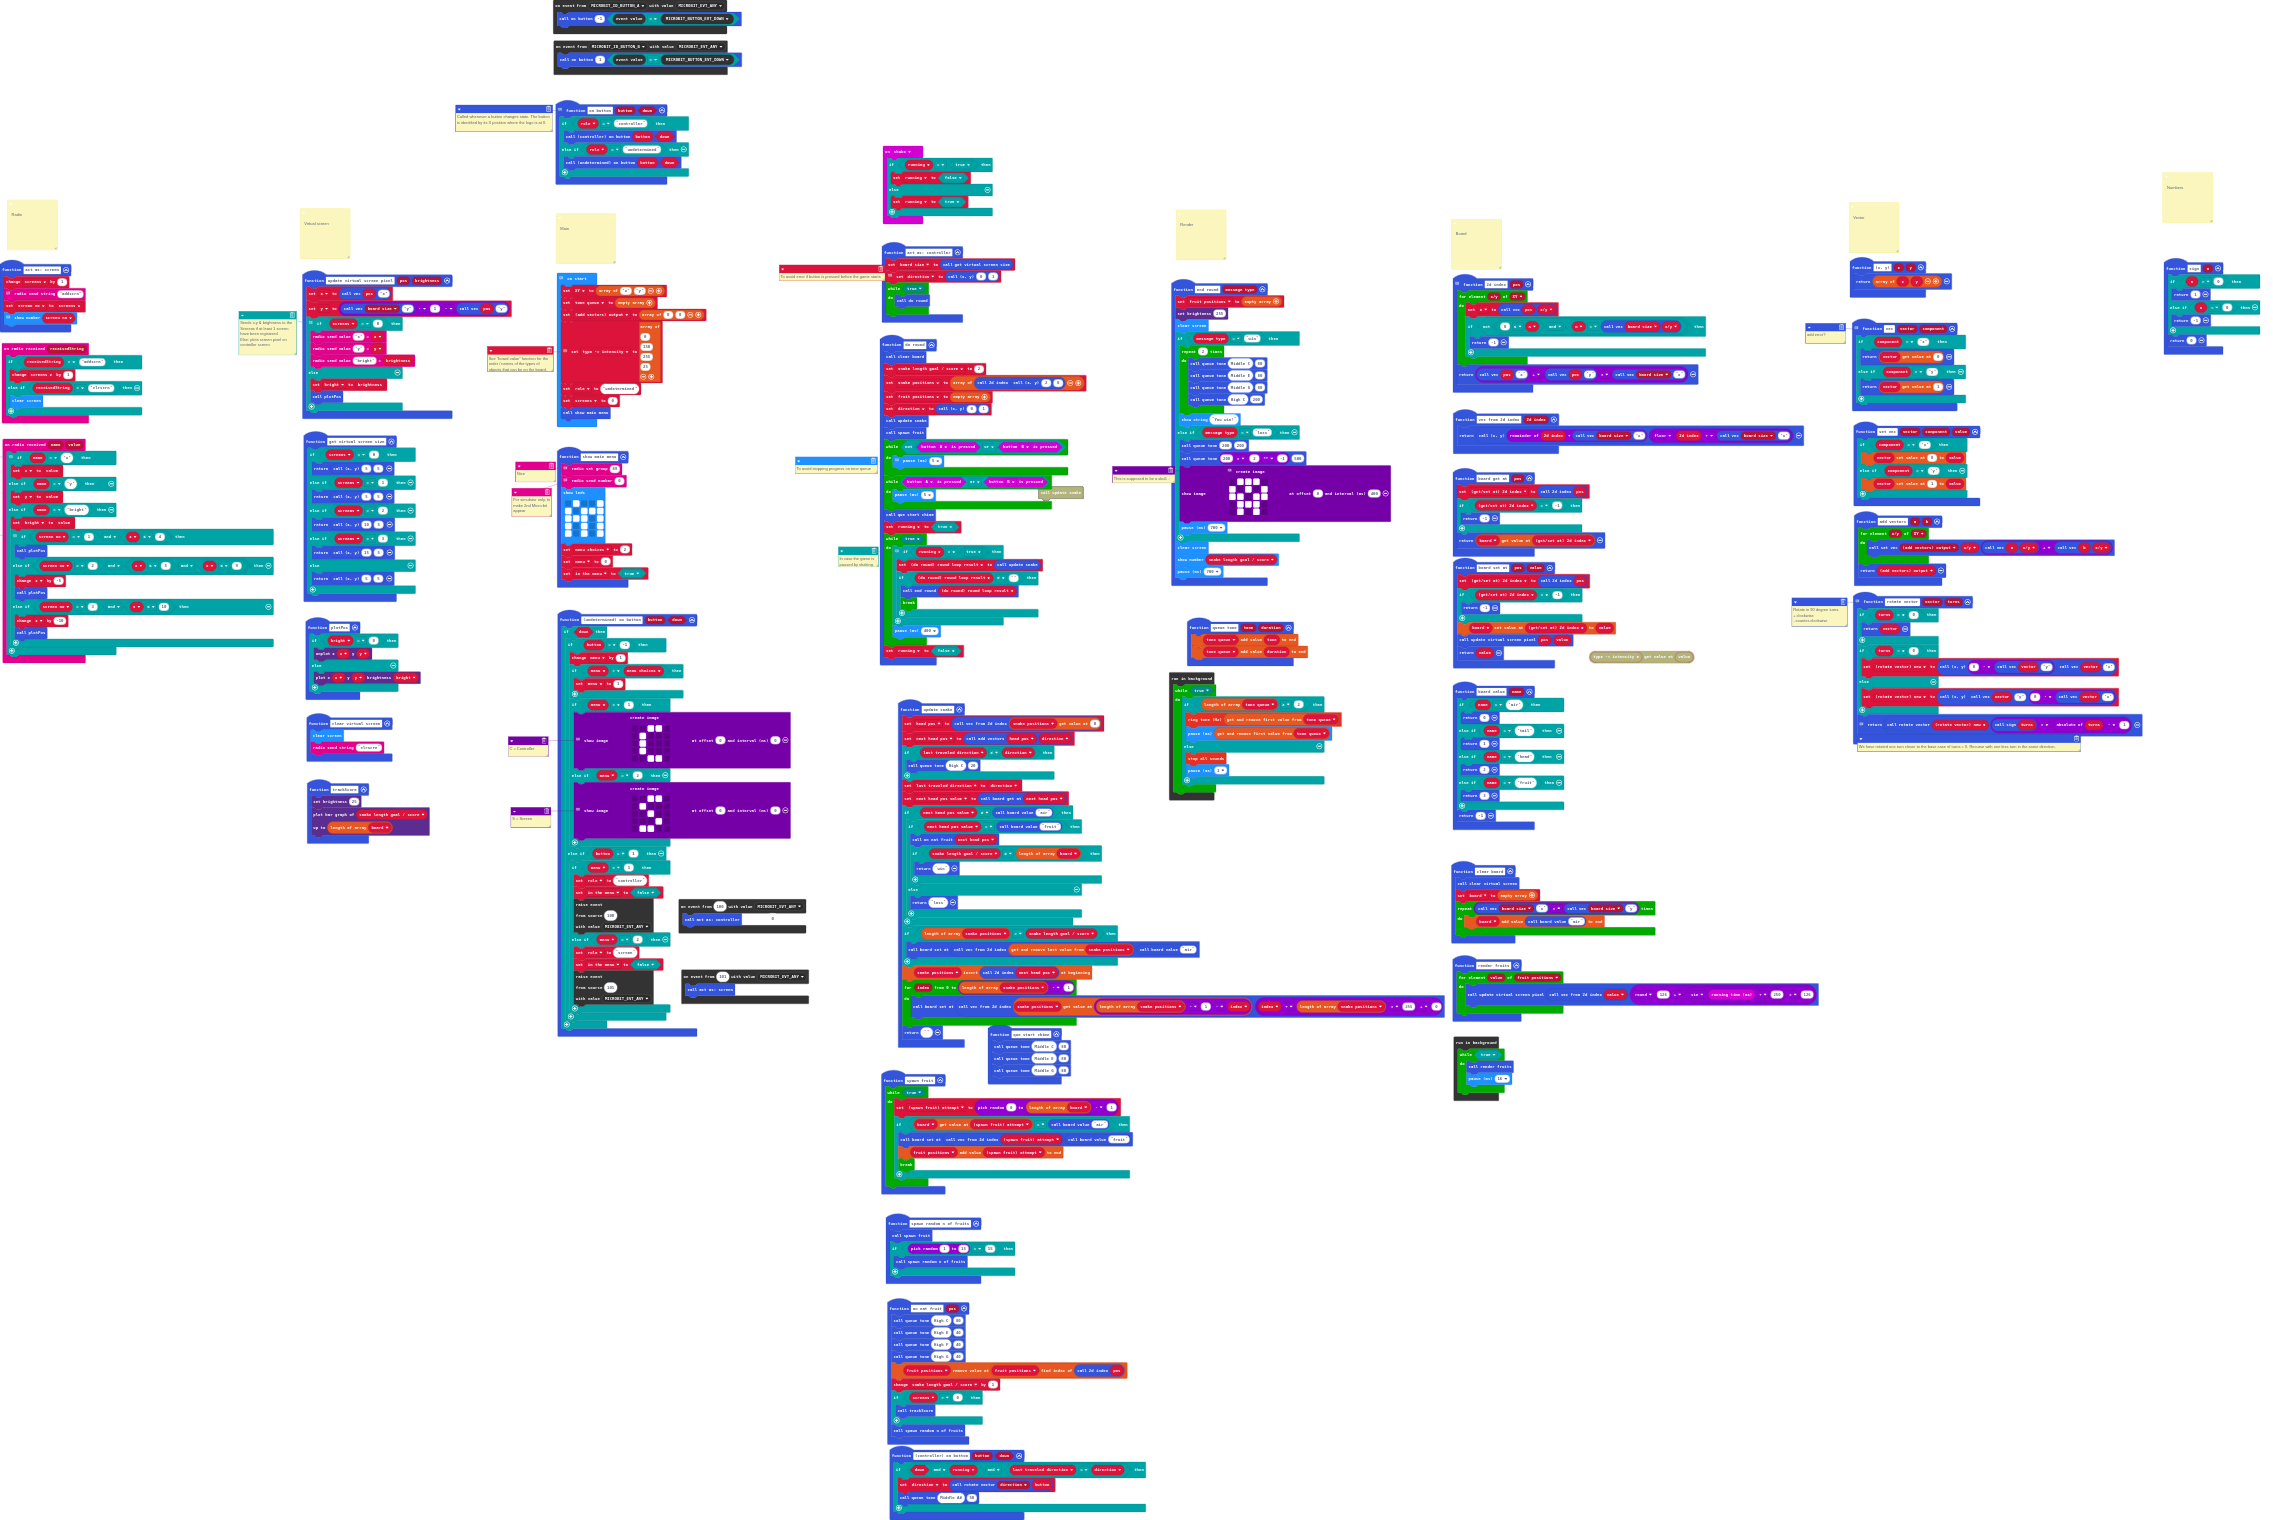
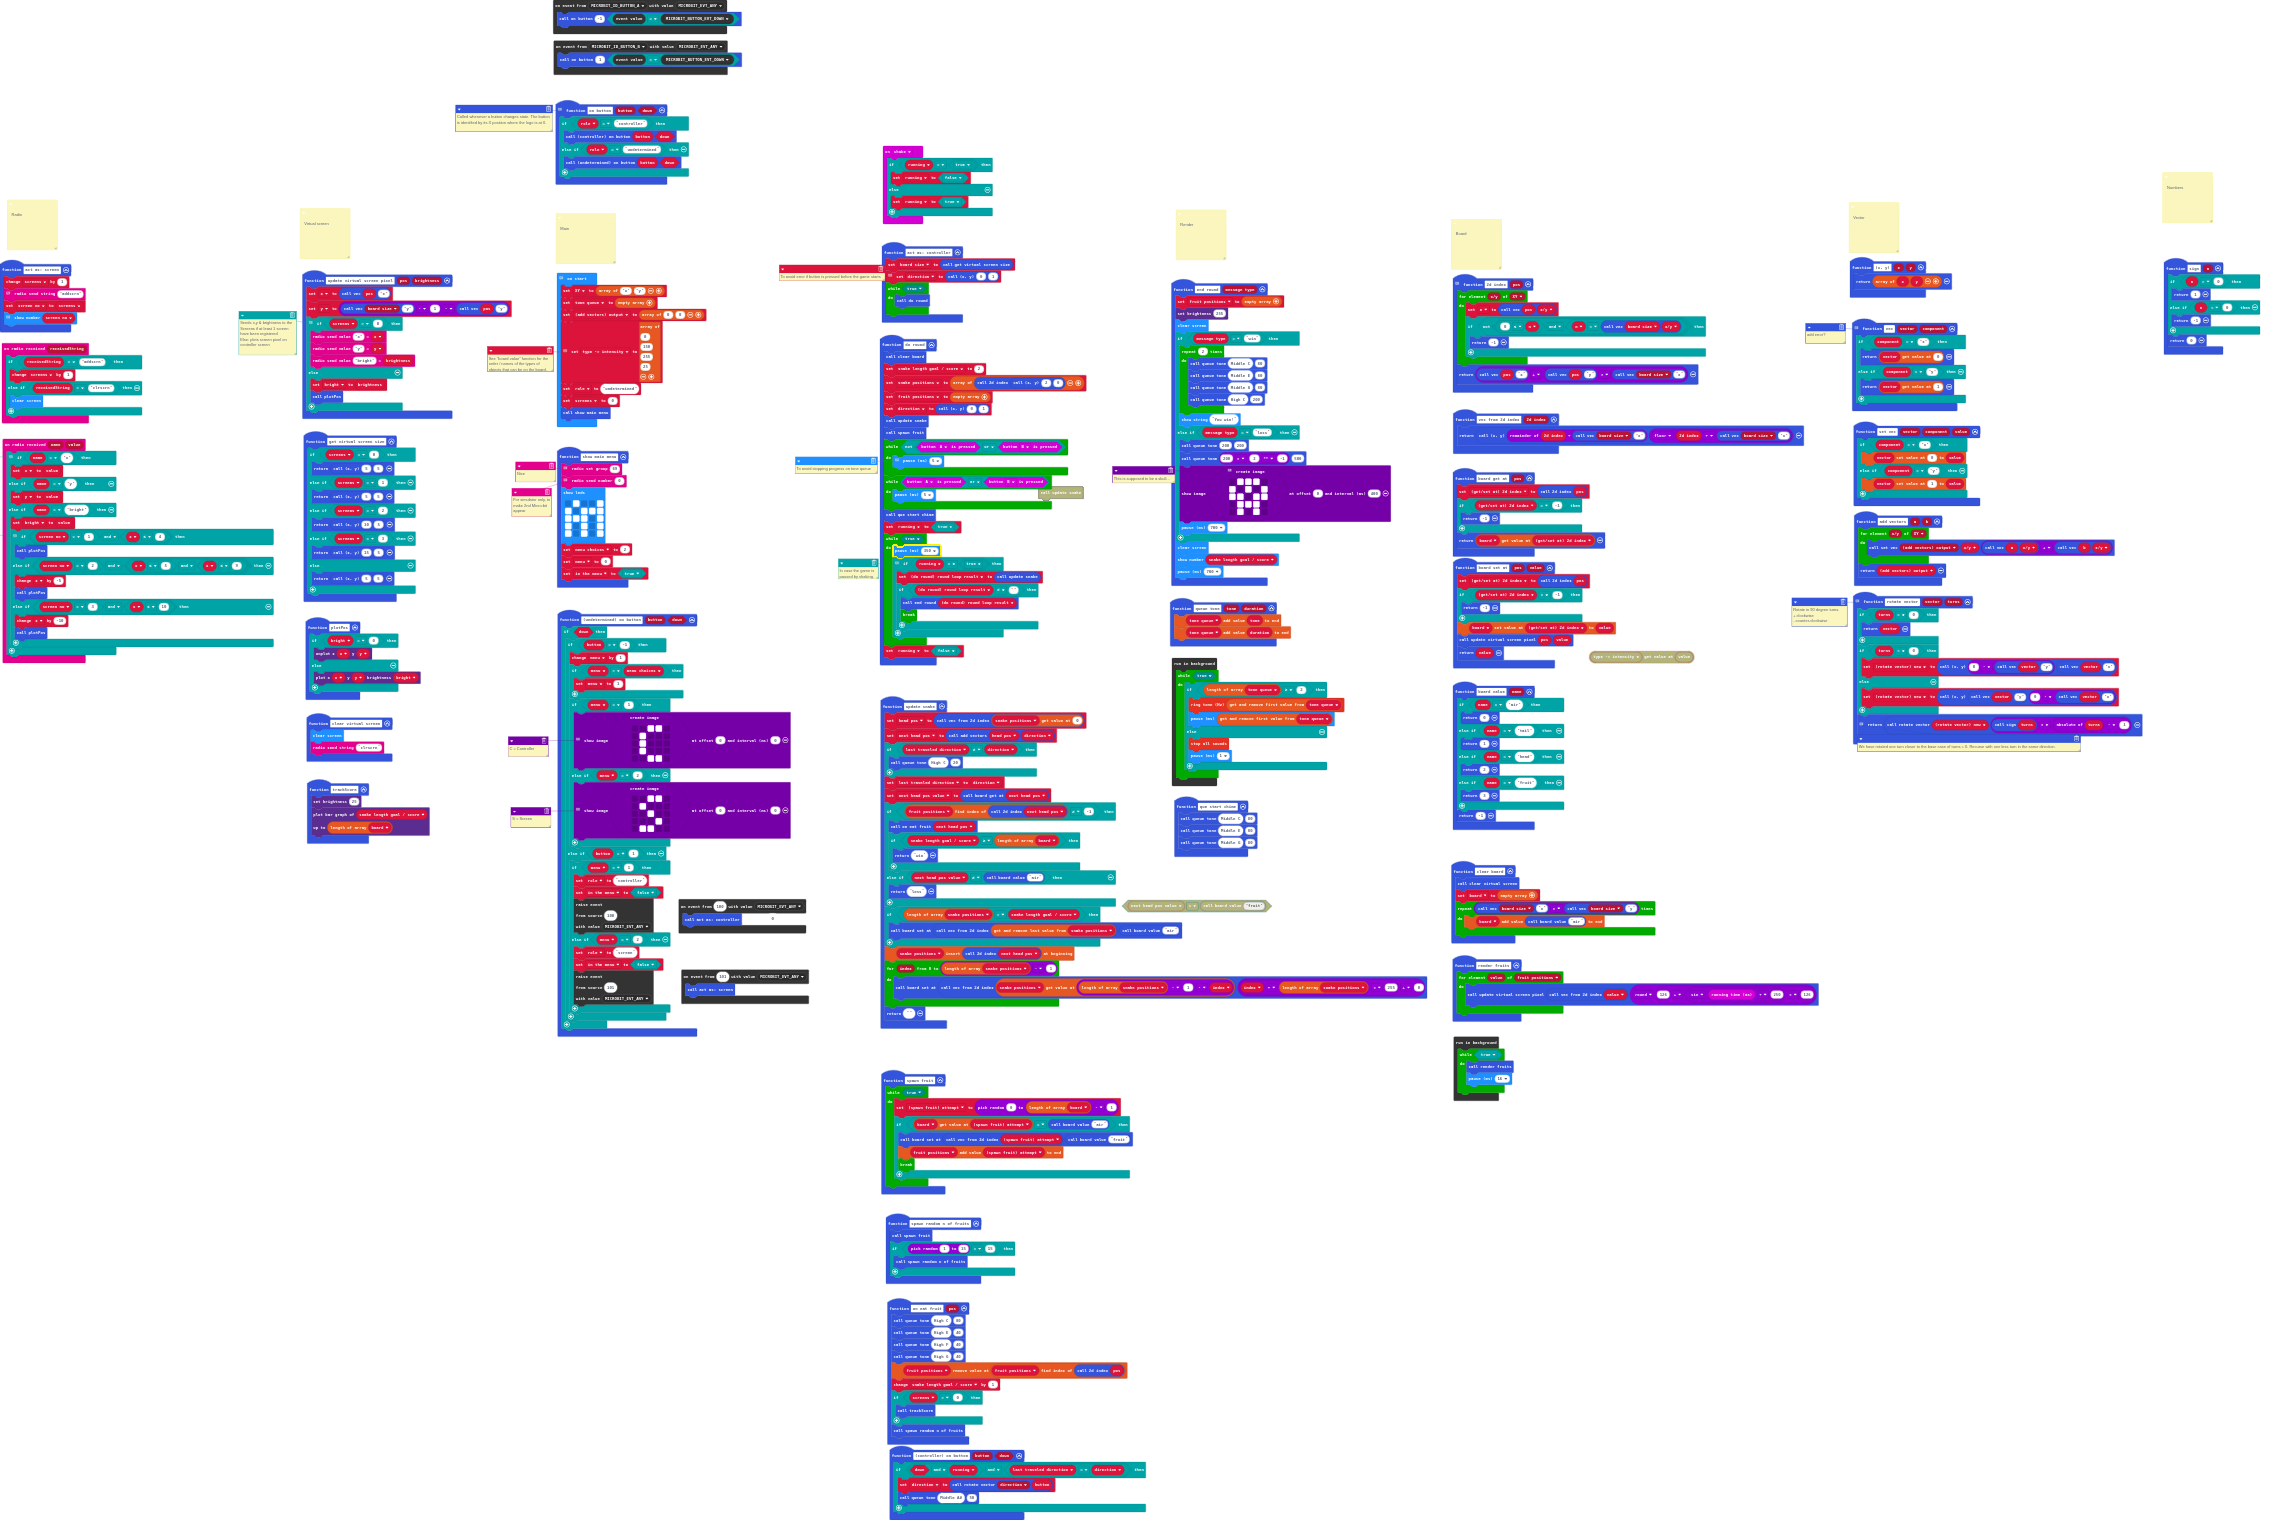
Fix ghost fruit maybe, fix impossible start turn

Changed region(s): [[0.3748, 0.3711, 0.656, 0.7112], [0.3748, 0.3401, 0.4685, 0.4329]]

diff --git a/main.ts b/main.ts
@@ -106,6 +106,7 @@ function do_round () {
     que_start_chime()
     running = true
     while (true) {
+        basic.pause(350)
         // In case the game is paused by shaking.
         if (running == true) {
             do_round_round_loop_result = update_snake()
@@ -114,7 +115,6 @@ function do_round () {
                 break;
             }
         }
-        basic.pause(400)
     }
     running = false
 }
@@ -307,15 +307,13 @@ function update_snake () {
     }
     last_traveled_direction = direction
     next_head_pos_value = board_get_at(next_head_pos)
-    if (next_head_pos_value != board_value("air")) {
-        if (next_head_pos_value == board_value("fruit")) {
-            on_eat_fruit(next_head_pos)
-            if (snake_length_goal__score >= board.length) {
-                return "win"
-            }
-        } else {
-            return "loss"
+    if (fruit_positions.indexOf(_2d_index(next_head_pos)) != -1) {
+        on_eat_fruit(next_head_pos)
+        if (snake_length_goal__score >= board.length) {
+            return "win"
         }
+    } else if (next_head_pos_value != board_value("air")) {
+        return "loss"
     }
     if (snake_positions.length > snake_length_goal__score) {
         board_set_at(vec_from_2d_index(snake_positions.pop()), board_value("air"))
